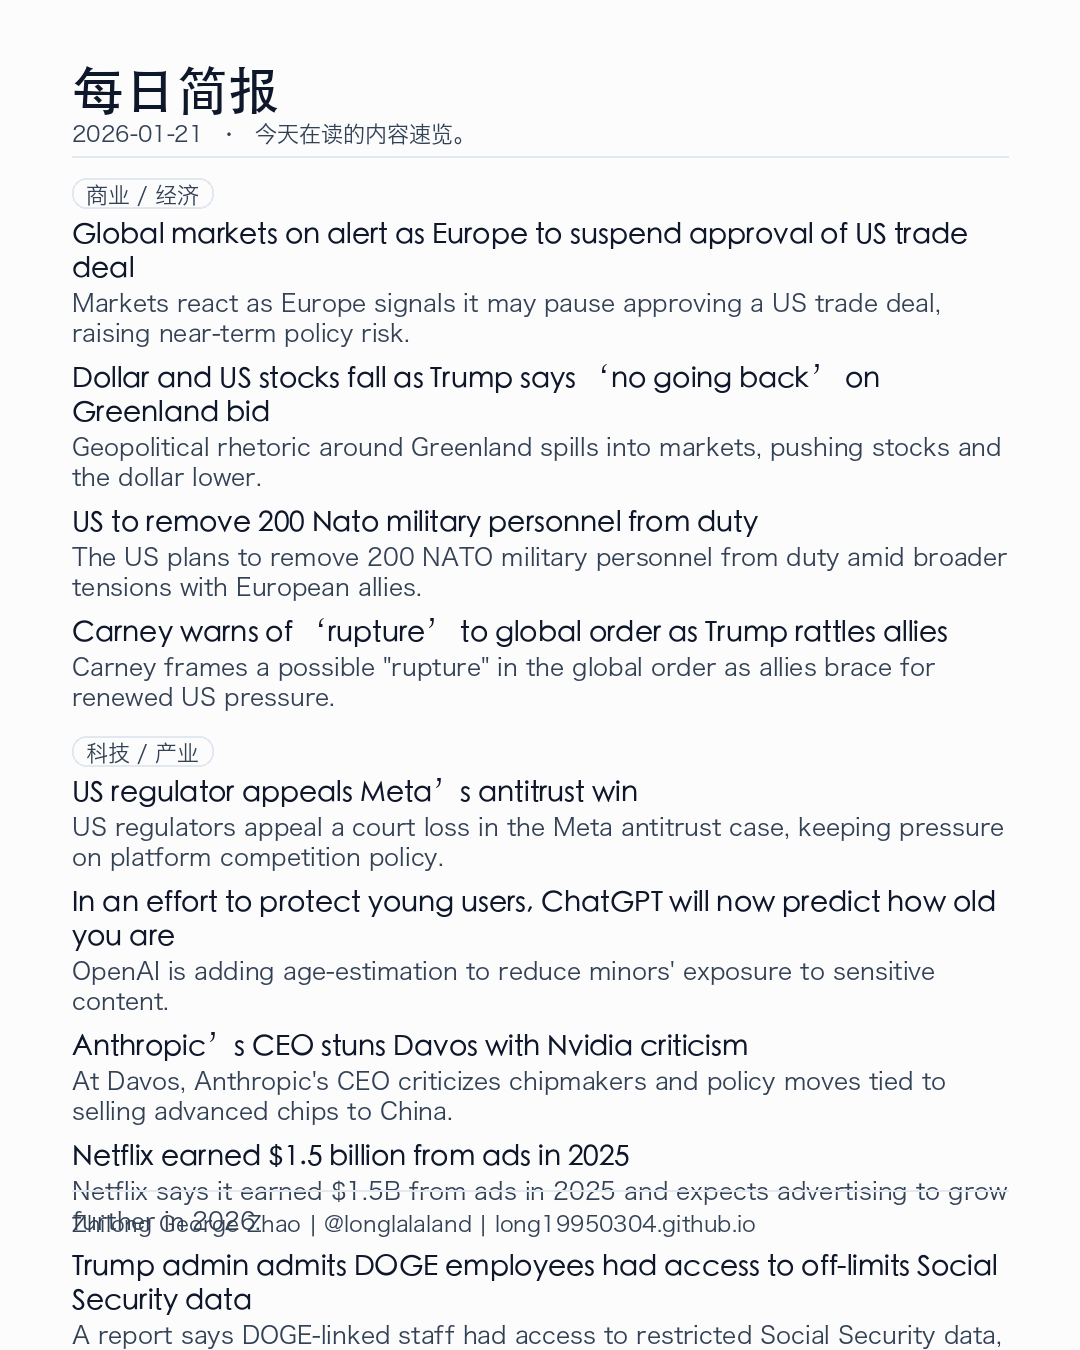
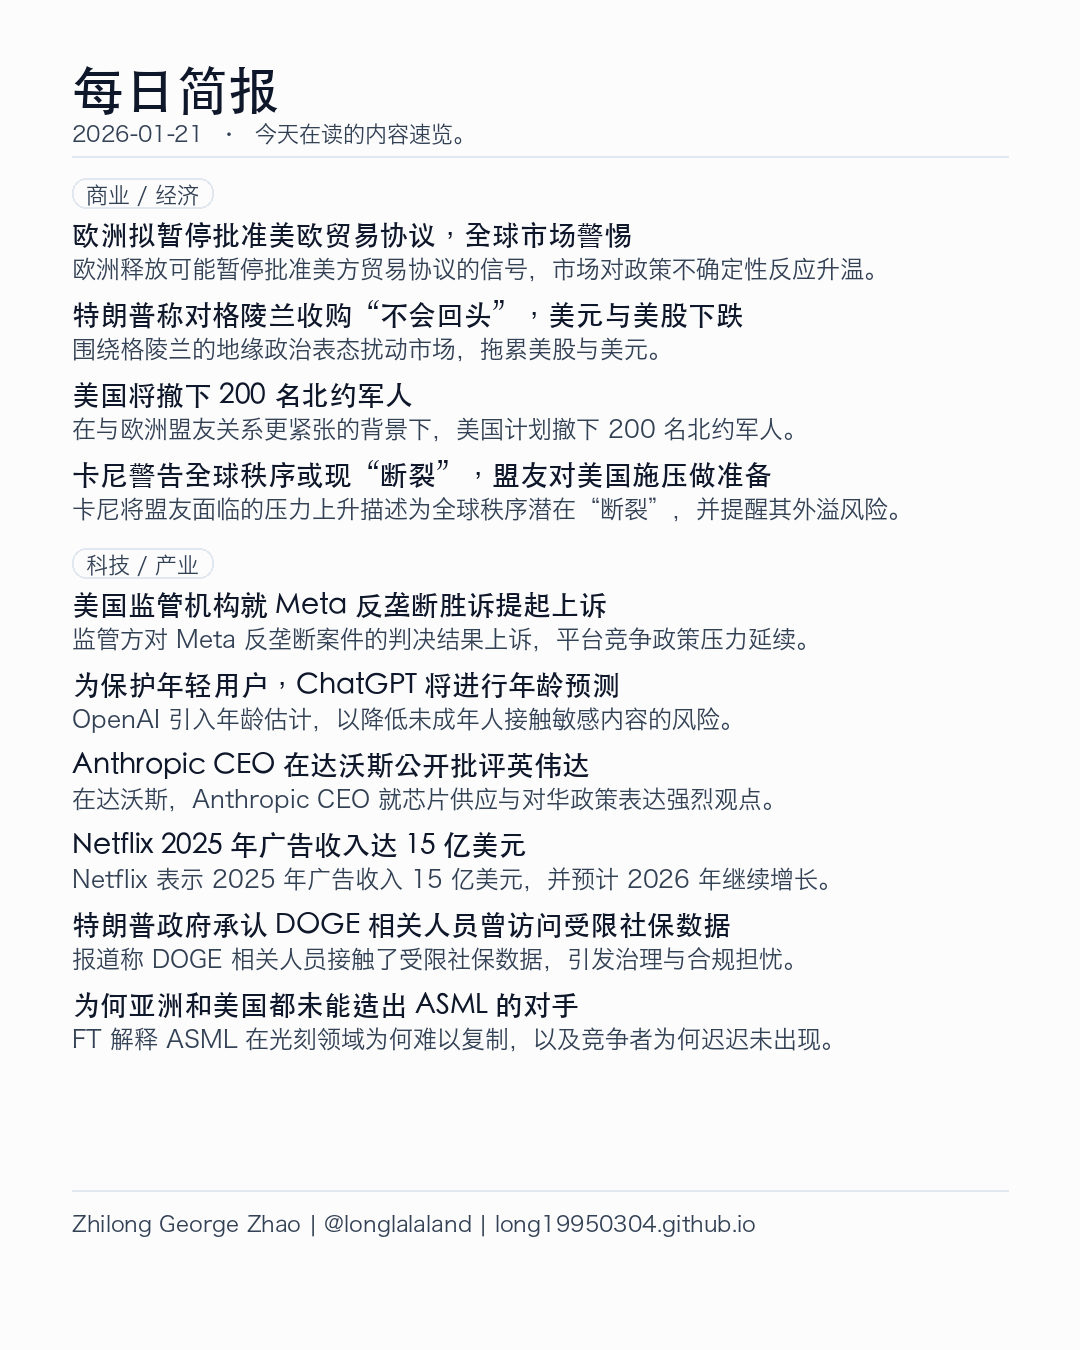
digest: add zh summaries for 2026-01-21

Changed region(s): [[0.0611, 0.1556, 0.9167, 0.9956], [0.8861, 0.8711, 0.9167, 0.9022]]

diff --git a/_digests_zh/2026-01-21.md b/_digests_zh/2026-01-21.md
@@ -16,26 +16,26 @@ translation_key: digest-2026-01-21
 
 ### 商业 / 经济
 
-- [Global markets on alert as Europe to suspend approval of US trade deal](https://www.bbc.com/news/articles/c4gwp2me3gzo?at_medium=RSS&at_campaign=rss) - Markets react as Europe signals it may pause approving a US trade deal, raising near-term policy risk.
-  - 要点: Trade headlines are moving risk sentiment again; watch FX/equities and whether this becomes a broader negotiation standoff.
-- [Dollar and US stocks fall as Trump says ‘no going back’ on Greenland bid](https://www.ft.com/content/6292304a-b4b3-4f04-89bb-f05861b40cb8) - Geopolitical rhetoric around Greenland spills into markets, pushing stocks and the dollar lower.
-  - 要点: A reminder that high-level geopolitical messaging can quickly translate into market volatility.
-- [US to remove 200 Nato military personnel from duty](https://www.ft.com/content/d5ac83e1-2b76-4737-895c-200518c7dea1) - The US plans to remove 200 NATO military personnel from duty amid broader tensions with European allies.
-  - 要点: Small in headcount but meaningful in signal; worth tracking for alliance posture and defense coordination narratives.
-- [Carney warns of ‘rupture’ to global order as Trump rattles allies](https://www.ft.com/content/7d9609d4-14cd-4b0c-b48c-0b3f2e4f6611) - Carney frames a possible "rupture" in the global order as allies brace for renewed US pressure.
-  - 要点: Middle-power coordination and institutional resilience are becoming part of the market/policy conversation.
+- [欧洲拟暂停批准美欧贸易协议，全球市场警惕](https://www.bbc.com/news/articles/c4gwp2me3gzo?at_medium=RSS&at_campaign=rss) - 欧洲释放可能暂停批准美方贸易协议的信号，市场对政策不确定性反应升温。
+  - 要点: 贸易谈判新闻再度牵动风险情绪；关注外汇/股市反应，以及是否演变为更广泛的谈判僵局。
+- [特朗普称对格陵兰收购“不会回头”，美元与美股下跌](https://www.ft.com/content/6292304a-b4b3-4f04-89bb-f05861b40cb8) - 围绕格陵兰的地缘政治表态扰动市场，拖累美股与美元。
+  - 要点: 高层地缘政治言论会迅速传导到市场波动，值得纳入风险情景与资产配置考量。
+- [美国将撤下 200 名北约军人](https://www.ft.com/content/d5ac83e1-2b76-4737-895c-200518c7dea1) - 在与欧洲盟友关系更紧张的背景下，美国计划撤下 200 名北约军人。
+  - 要点: 规模不大但信号明确；可继续观察其对盟友姿态与防务协作叙事的影响。
+- [卡尼警告全球秩序或现“断裂”，盟友对美国施压做准备](https://www.ft.com/content/7d9609d4-14cd-4b0c-b48c-0b3f2e4f6611) - 卡尼将盟友面临的压力上升描述为全球秩序潜在“断裂”，并提醒其外溢风险。
+  - 要点: 中等国家的协调与制度韧性正在成为市场与政策讨论的一部分。
 
 ### 科技 / 产业
 
-- [US regulator appeals Meta’s antitrust win](https://www.ft.com/content/ef7b57cf-d2e7-4cfb-be24-1b5e1bdc3452) - US regulators appeal a court loss in the Meta antitrust case, keeping pressure on platform competition policy.
-  - 要点: Even when firms win early rounds, the regulatory cycle continues; precedents here matter for the broader tech landscape.
-- [In an effort to protect young users, ChatGPT will now predict how old you are](https://techcrunch.com/2026/01/20/in-an-effort-to-protect-young-users-chatgpt-will-now-predict-how-old-you-are/) - OpenAI is adding age-estimation to reduce minors' exposure to sensitive content.
-  - 要点: Age inference becomes a new trust-and-safety layer—useful, but it raises accuracy, fairness, and accountability questions.
-- [Anthropic’s CEO stuns Davos with Nvidia criticism](https://techcrunch.com/2026/01/20/anthropics-ceo-stuns-davos-with-nvidia-criticism/) - At Davos, Anthropic's CEO criticizes chipmakers and policy moves tied to selling advanced chips to China.
-  - 要点: AI strategy is increasingly inseparable from hardware supply chains and geopolitics.
-- [Netflix earned $1.5 billion from ads in 2025](https://www.theverge.com/news/864451/netflix-advertising-revenue-doubled-q4-2025-earnings) - Netflix says it earned $1.5B from ads in 2025 and expects advertising to grow further in 2026.
-  - 要点: Ads are no longer a side experiment—this shifts incentives in product design, measurement, and competition with other attention platforms.
-- [Trump admin admits DOGE employees had access to off-limits Social Security data](https://www.theverge.com/news/864643/doge-social-security-data-misuse) - A report says DOGE-linked staff had access to restricted Social Security data, raising governance concerns.
-  - 要点: Data access controls and auditability are becoming headline-level issues—relevant to both public-sector trust and tech compliance.
-- [Why neither Asia nor the US has produced a rival to ASML](https://www.ft.com/content/e47375fb-8c9f-4a4f-8526-8d46ededb805) - An FT explainer on why ASML remains uniquely hard to replicate in lithography—and why rivals haven't emerged.
-  - 要点: The piece is a useful map of technological lock-in and industrial-policy constraints shaping the semiconductor stack.
+- [美国监管机构就 Meta 反垄断胜诉提起上诉](https://www.ft.com/content/ef7b57cf-d2e7-4cfb-be24-1b5e1bdc3452) - 监管方对 Meta 反垄断案件的判决结果上诉，平台竞争政策压力延续。
+  - 要点: 即便企业赢下首轮，监管周期仍会继续；此类判例对更广泛的科技格局具有外溢影响。
+- [为保护年轻用户，ChatGPT 将进行年龄预测](https://techcrunch.com/2026/01/20/in-an-effort-to-protect-young-users-chatgpt-will-now-predict-how-old-you-are/) - OpenAI 引入年龄估计，以降低未成年人接触敏感内容的风险。
+  - 要点: 年龄推断正在成为新的安全层；但其准确性、公平性与问责机制同样需要被审视。
+- [Anthropic CEO 在达沃斯公开批评英伟达](https://techcrunch.com/2026/01/20/anthropics-ceo-stuns-davos-with-nvidia-criticism/) - 在达沃斯，Anthropic CEO 就芯片供应与对华政策表达强烈观点。
+  - 要点: AI 战略越来越难与硬件供应链与地缘政治切割。
+- [Netflix 2025 年广告收入达 15 亿美元](https://www.theverge.com/news/864451/netflix-advertising-revenue-doubled-q4-2025-earnings) - Netflix 表示 2025 年广告收入 15 亿美元，并预计 2026 年继续增长。
+  - 要点: 广告不再是边缘实验：它会重塑产品设计、衡量体系与注意力平台竞争。
+- [特朗普政府承认 DOGE 相关人员曾访问受限社保数据](https://www.theverge.com/news/864643/doge-social-security-data-misuse) - 报道称 DOGE 相关人员接触了受限社保数据，引发治理与合规担忧。
+  - 要点: 数据访问控制与审计可追溯性正成为头条议题，事关公共部门信任与科技合规。
+- [为何亚洲和美国都未能造出 ASML 的对手](https://www.ft.com/content/e47375fb-8c9f-4a4f-8526-8d46ededb805) - FT 解释 ASML 在光刻领域为何难以复制，以及竞争者为何迟迟未出现。
+  - 要点: 一篇理解半导体栈“技术锁定”与产业政策约束的好路线图。
